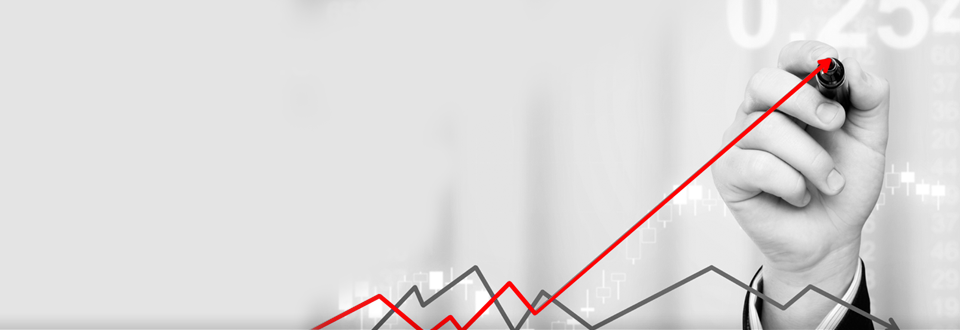
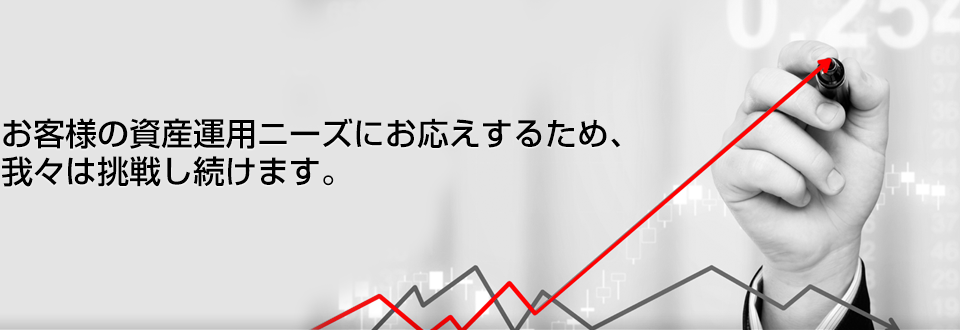
modified homepage
homepage banner image modified. text is now part of the image

Changed region(s): [[0.0, 0.3636, 0.6562, 0.5758]]

diff --git a/apps/frontend/modules/home/templates/indexSuccess.php b/apps/frontend/modules/home/templates/indexSuccess.php
@@ -1,7 +1,7 @@
 <div class="visualWrapper">
   <div class="visual">
     <div class="visualContent">
-      <h1>お客様の資産運用ニーズにお応えするため、<br />我々は挑戦し続けます。</h1>
+      
     </div>
   </div>
 </div>
@@ -75,7 +75,7 @@
           暁投資顧問とは?
         </div>
         <div class="contentContentAboutContent">
-          <p>暁投資顧問では安全性重視のトレードに重きを置きながら、
+         <p>暁投資顧問では安全性重視のトレードに重きを置きながら、
           お客様が何を求め、感じているのかを考えており、より良く安心にお付き合いできるよう努めております。
           </p>
           <a href="<?php echo url_for('static/investment')?>" alt="" title=""></a>
